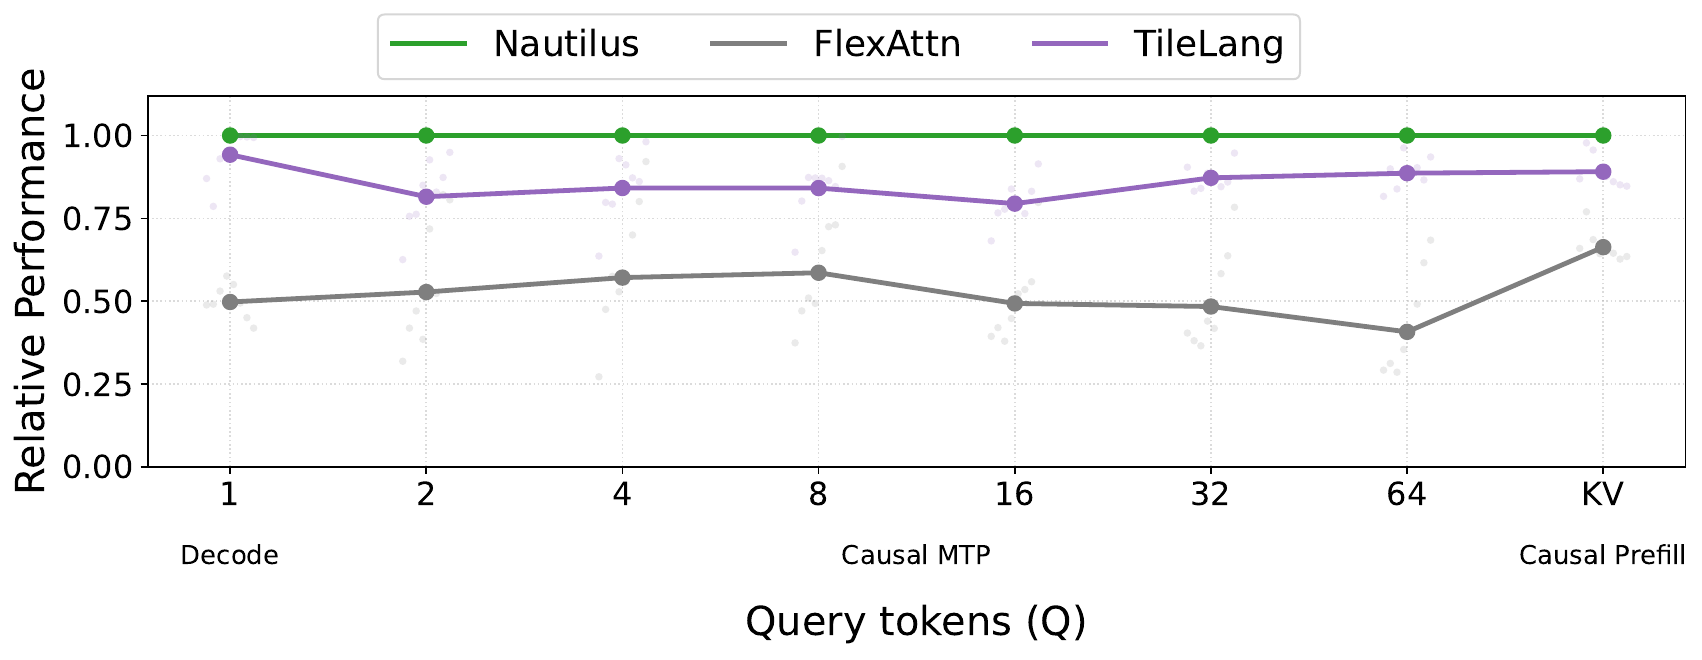
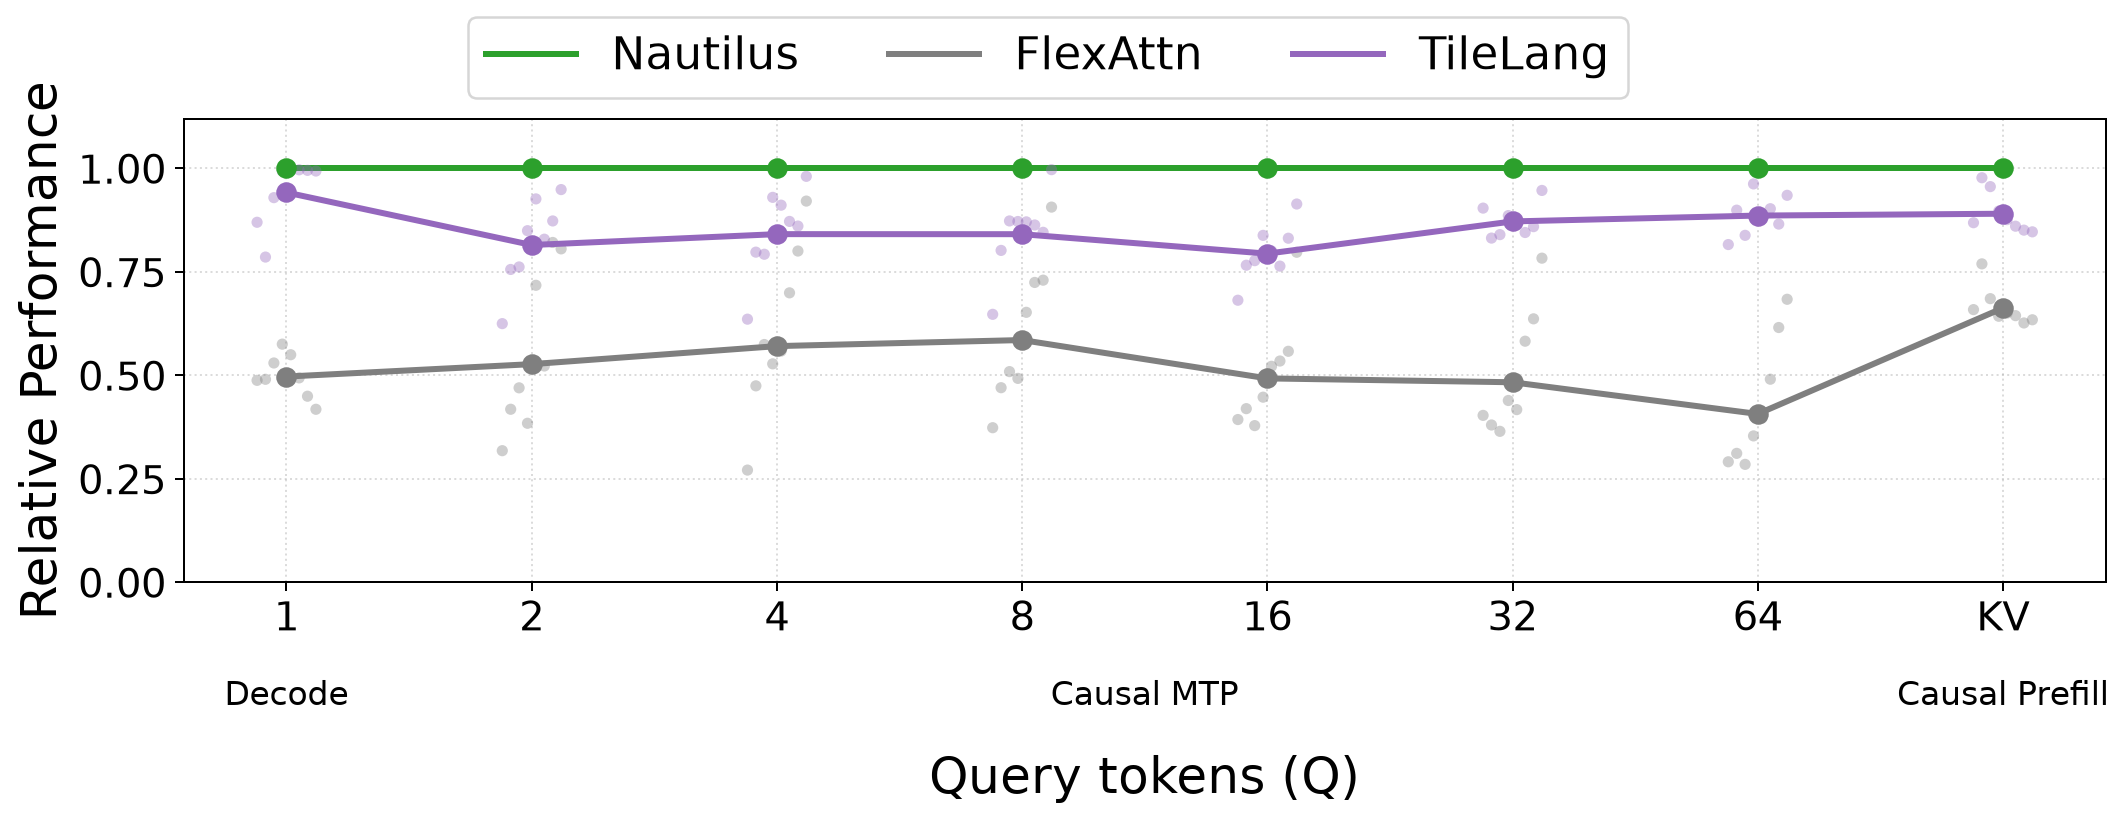
Make transition scatter points visible

diff --git a/scripts/plot_attention_transition.py b/scripts/plot_attention_transition.py
@@ -62,7 +62,7 @@ def plot(data, output):
         if method != 'Ours':
             for stage, x in zip(STAGES, POSITIONS):
                 group = normalized[normalized['stage'] == stage].sort_values('kv_length')
-                ax.scatter(x + offsets, group[method], color=color, s=14, alpha=0.16,
+                ax.scatter(x + offsets, group[method], color=color, s=20, alpha=0.38,
                            edgecolors='none', zorder=2)
         ax.scatter(POSITIONS, means, color=color, s=52, zorder=4)
     ax.set_xticks(POSITIONS, ['1', '2', '4', '8', '16', '32', '64', 'KV'])

diff --git a/paper_results/operator_gh200/attention_transition_20261029/README.md b/paper_results/operator_gh200/attention_transition_20261029/README.md
@@ -26,8 +26,9 @@ All are B1/D128/FP16. Decode and prefill have32 heads; MTP has4. Baseline
 implementations/environments also come from the corresponding prior experiments.
 This figure supports a comparison across the existing workloads, not a claim
 that heads, compiler versions and all other parameters were held constant.
-Dashed lines visually connect decode to MTP and MTP to prefill for all three
-methods, including Nautilus. MTP itself uses solid lines. No new measurements
+Solid lines connect all stages for all three methods, including Nautilus.
+Individual KV points use size 20 and alpha 0.38 to remain visible beneath
+the averaged curves. No new measurements
 or interpolated samples are introduced. The MTP H=4 annotation is omitted from
 the figure as requested; the actual shape remains documented here and in the CSV.
 
